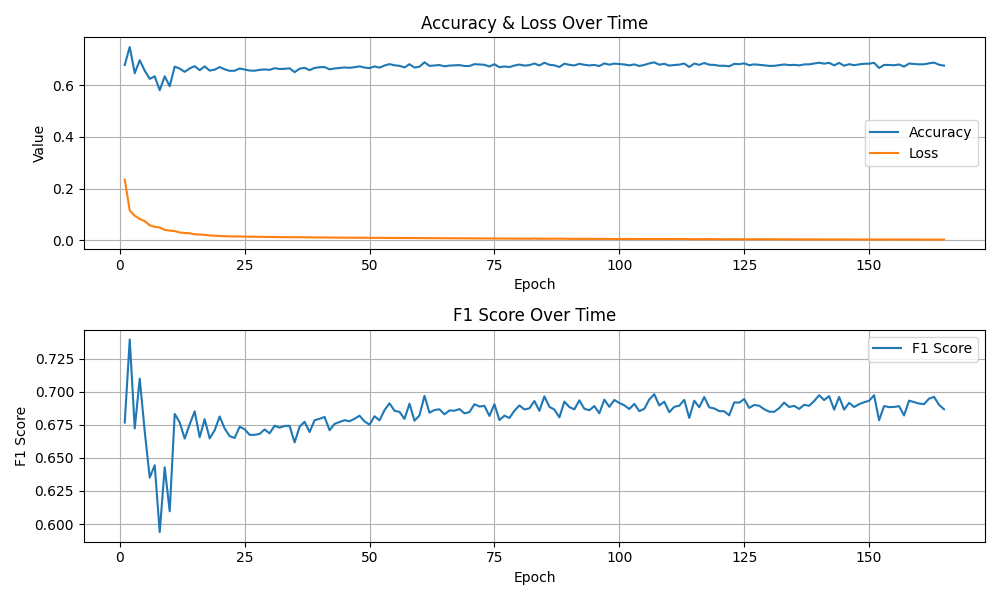
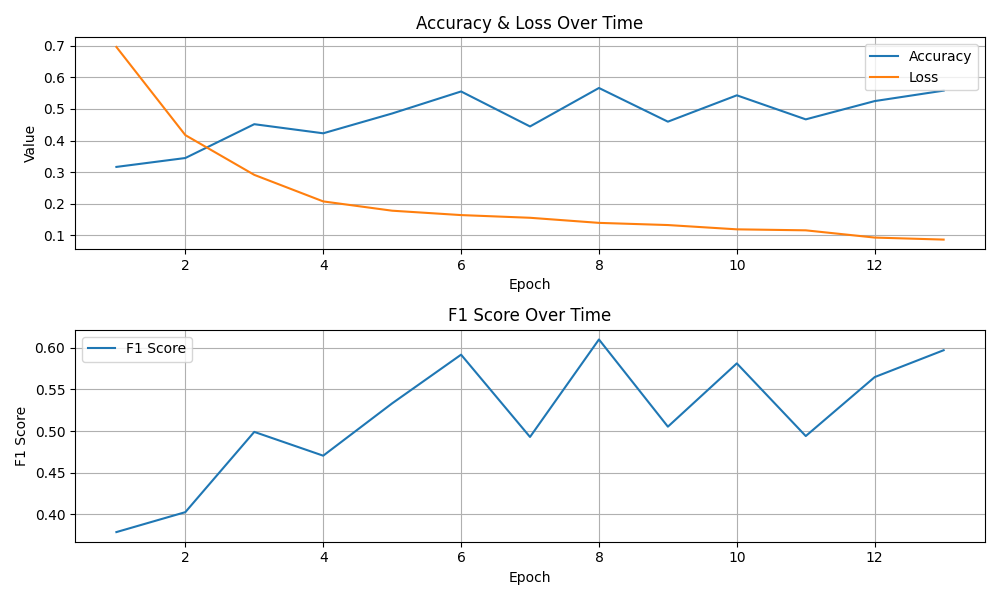
Final SSI implimentation

diff --git a/ssi_implimentation.py b/ssi_implimentation.py
@@ -17,6 +17,7 @@ import matplotlib
 matplotlib.use('Agg')
 import matplotlib.pyplot as plt
 from sklearn.ensemble import RandomForestClassifier
+from sklearn.utils.class_weight import compute_class_weight
 
 # Some global variables for model training analysis
 accuracy_list = []
@@ -31,7 +32,7 @@ ratio_list = []
 EdgesModule defines edges as linear neurons
 """
 class EdgesModule(nn.Module):
-    def __init__(self, dim, dropout=0.2):
+    def __init__(self, dim, dropout=0.1):
         super().__init__()
         self.edge = nn.Linear(dim,dim)
 
@@ -95,7 +96,7 @@ class GraphModule(nn.Module):
                 inital_node = node
         
         # Normalising and returning the final output node
-        exit_output = self.exit_weight(node_outputs[self.exit_node]) #node_outputs[self.exit_node] / node_counts[self.exit_node]  # NOTE: Could make this a learnable paramter?
+        exit_output = self.dropout(self.exit_weight(node_outputs[self.exit_node])) #node_outputs[self.exit_node] / node_counts[self.exit_node]  # NOTE: Could make this a learnable paramter?
         return self.norm(exit_output+x) #  residual connection in form of + x
 
     
@@ -247,28 +248,30 @@ def summarySave(finalLoss, model):
 def sigmoid(x):
     return 1/(1+np.exp(-x))
 
-def customCriterion(logits, y, class_weights, gamma=0.5):
-    ce_loss = F.cross_entropy(logits, y, reduction='none')
+def customCriterion(logits, y, alpha=None, gamma=2.0):
+    ce_loss = F.cross_entropy(logits, y, reduction='none') 
     probs = F.softmax(logits, dim=1)
-    pt = probs[range(len(y)), y]
+    pt = probs[range(len(y)), y]  
     
-    # Gentle focusing
     focal_weight = (1 - pt) ** gamma
+    loss = focal_weight * ce_loss
     
-    # Apply class weights
-    weighted_loss = focal_weight * ce_loss * class_weights[y]
+    if alpha is not None:
+        loss = loss * alpha[y]
     
-    return weighted_loss.mean()
+    return loss.mean()
 
 # This is the main training and evaluation loop
-def train_model(model, trainLoader, testLoader, device, epochs=30, lr=0.0001):
+def train_model(model, trainLoader, testLoader, device, yTrain, epochs=30, lr=0.0005):
     # Compute class weights based on training labels
     penalty_dict = {1: 0.487599, 0: 0.364605, 2: 0.061537, 6: 0.035300, 5: 0.029890, 4: 0.016338, 3: 0.004727}
     max_class = max(penalty_dict.keys())
-    class_weights = torch.zeros(max_class + 1, device=device)
-    for class_id, weight in penalty_dict.items():
-        class_weights[class_id] = 1.0 / (weight + 1e-6)
-    class_weights = class_weights / class_weights.sum() * len(penalty_dict)
+    class_weights_np = compute_class_weight(
+        class_weight='balanced',
+        classes=np.unique(yTrain),
+        y=yTrain
+    )
+    class_weights = torch.tensor(class_weights_np, dtype=torch.float32, device=device)
 
     # Now defining loss functgion and optimiser
     criterion = nn.CrossEntropyLoss(weight=class_weights)
@@ -524,7 +527,7 @@ def main():
     print(f"Paths: {model.layers[0].vertical_layers[0].all_paths}")
     model.to(device)
     print('Model created, starting training...')
-    train_model(model, trainLoader, testLoader, device)
+    train_model(model, trainLoader, testLoader, device, yTrain)
 
     # Plotting Training Metrics
     plot_training_metrics()

diff --git a/result_verification.py b/result_verification.py
@@ -221,18 +221,18 @@ def main():
 
     do_single = True
     if do_single:
-        matrix = [
-            [6345, 1323,    0,    0,  829,  265, 1830],
-            [2621, 11538,   0,    0,    6,    0,    0],
-            [   0,    0, 1768,    8,    0,   11,    0],
-            [   0,    0,  102,   35,    0,    0,    0],
-            [  25,  326,    0,    0,  123,    0,    0],
-            [   0,    0,  842,    1,   20,    5,    0],
-            [  39,    0,    0,    0,    0,    0,  986],
-        ]
+        confusion_matrix = [
+        [6383, 1082,    8,    0, 1013,  328, 1778],
+        [4872, 9099,    0,    0,  189,    0,    5],
+        [   0,    0, 1341,  209,    0,  237,    0],
+        [   0,    0,   14,  120,    0,    3,    0],
+        [  16,   53,    0,    0,  405,    0,    0],
+        [   0,    0,  342,   59,    9,  458,    0],
+        [   1,    0,    0,    0,    0,    0, 1024]
+    ]
 
 
 
 
-        print(calc_score(matrix))
+        print(calc_score(confusion_matrix))
 main()

diff --git a/NOTES.md b/NOTES.md
@@ -311,3 +311,7 @@ After 165 epochs this was the cf, it also had a 0.76 score:
  You can see the training metrics below.
 
  ![Training Metrics 4](Pictures/training_metrics_4.png "Train 4")
+
+ After many changes, I couldn't get the results to be significantly better than that. 
+
+ # Basic Neural Network Baseline 2
